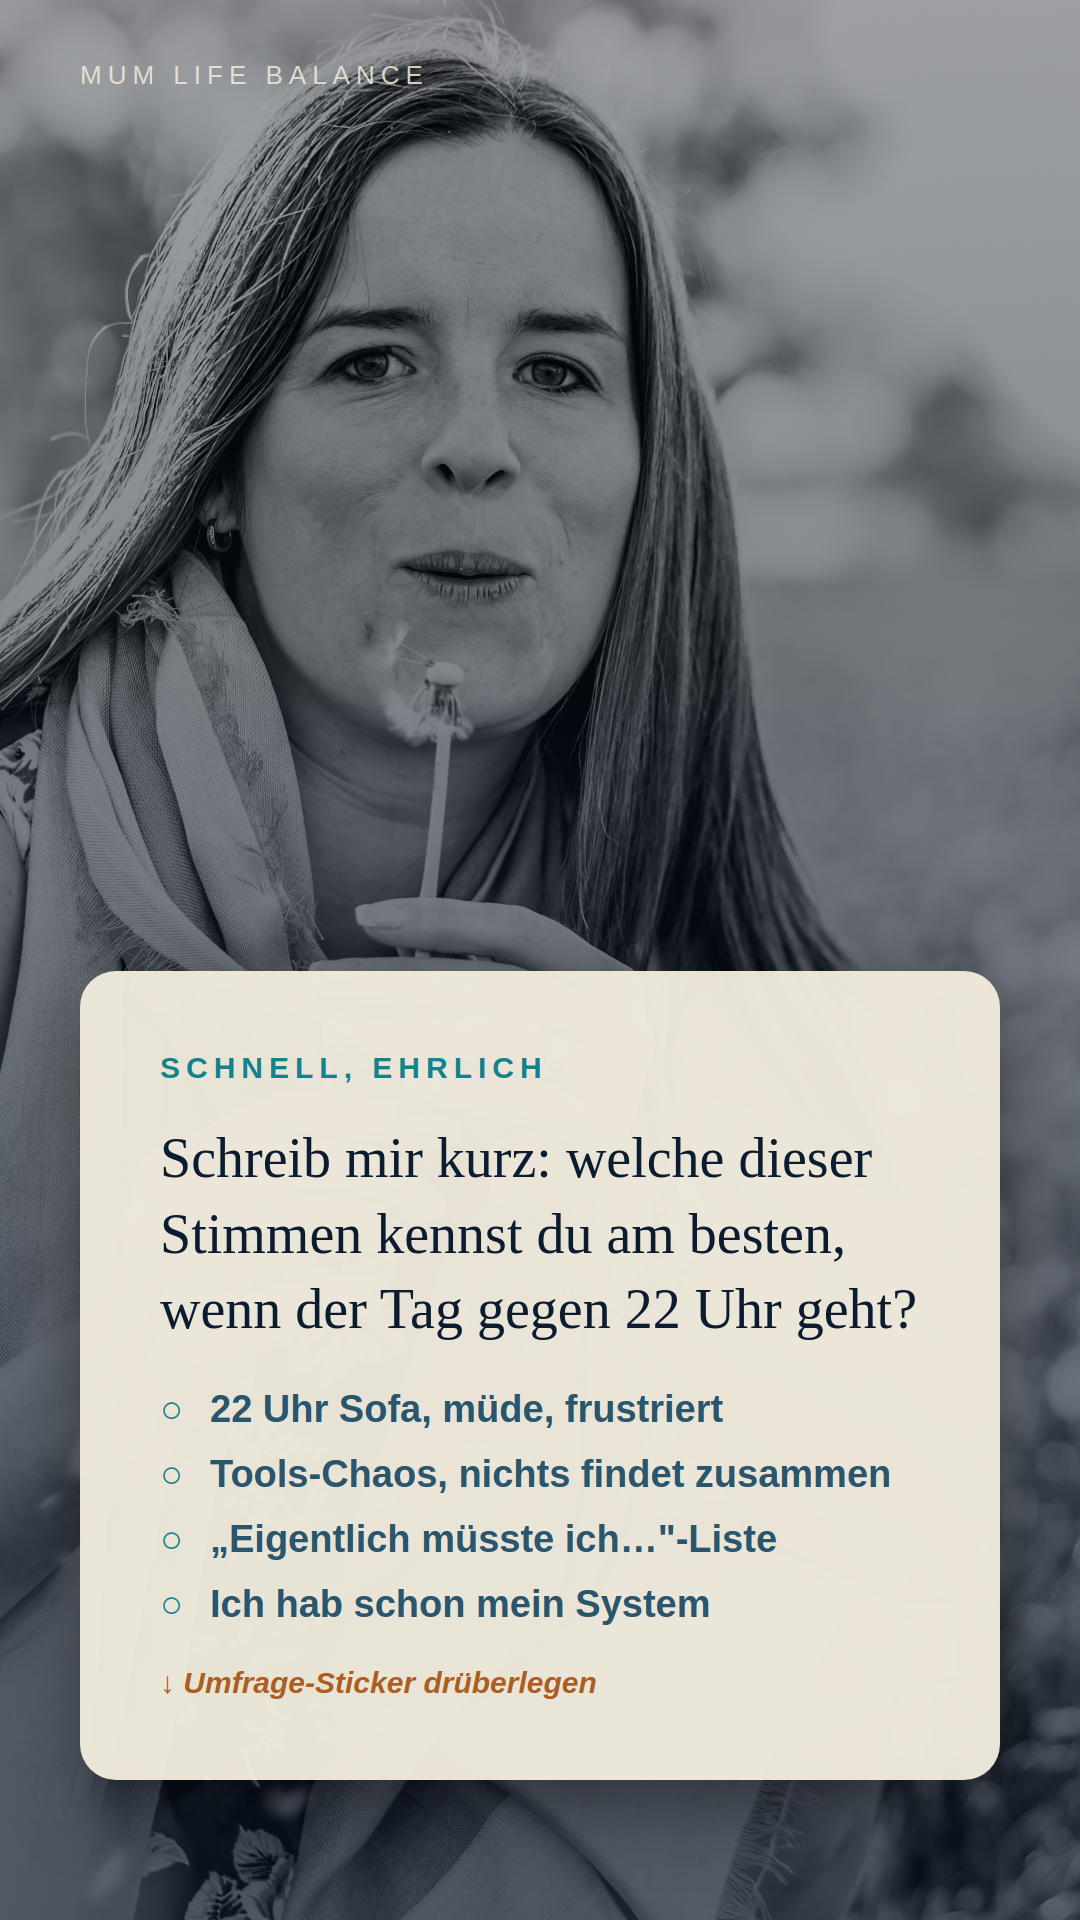
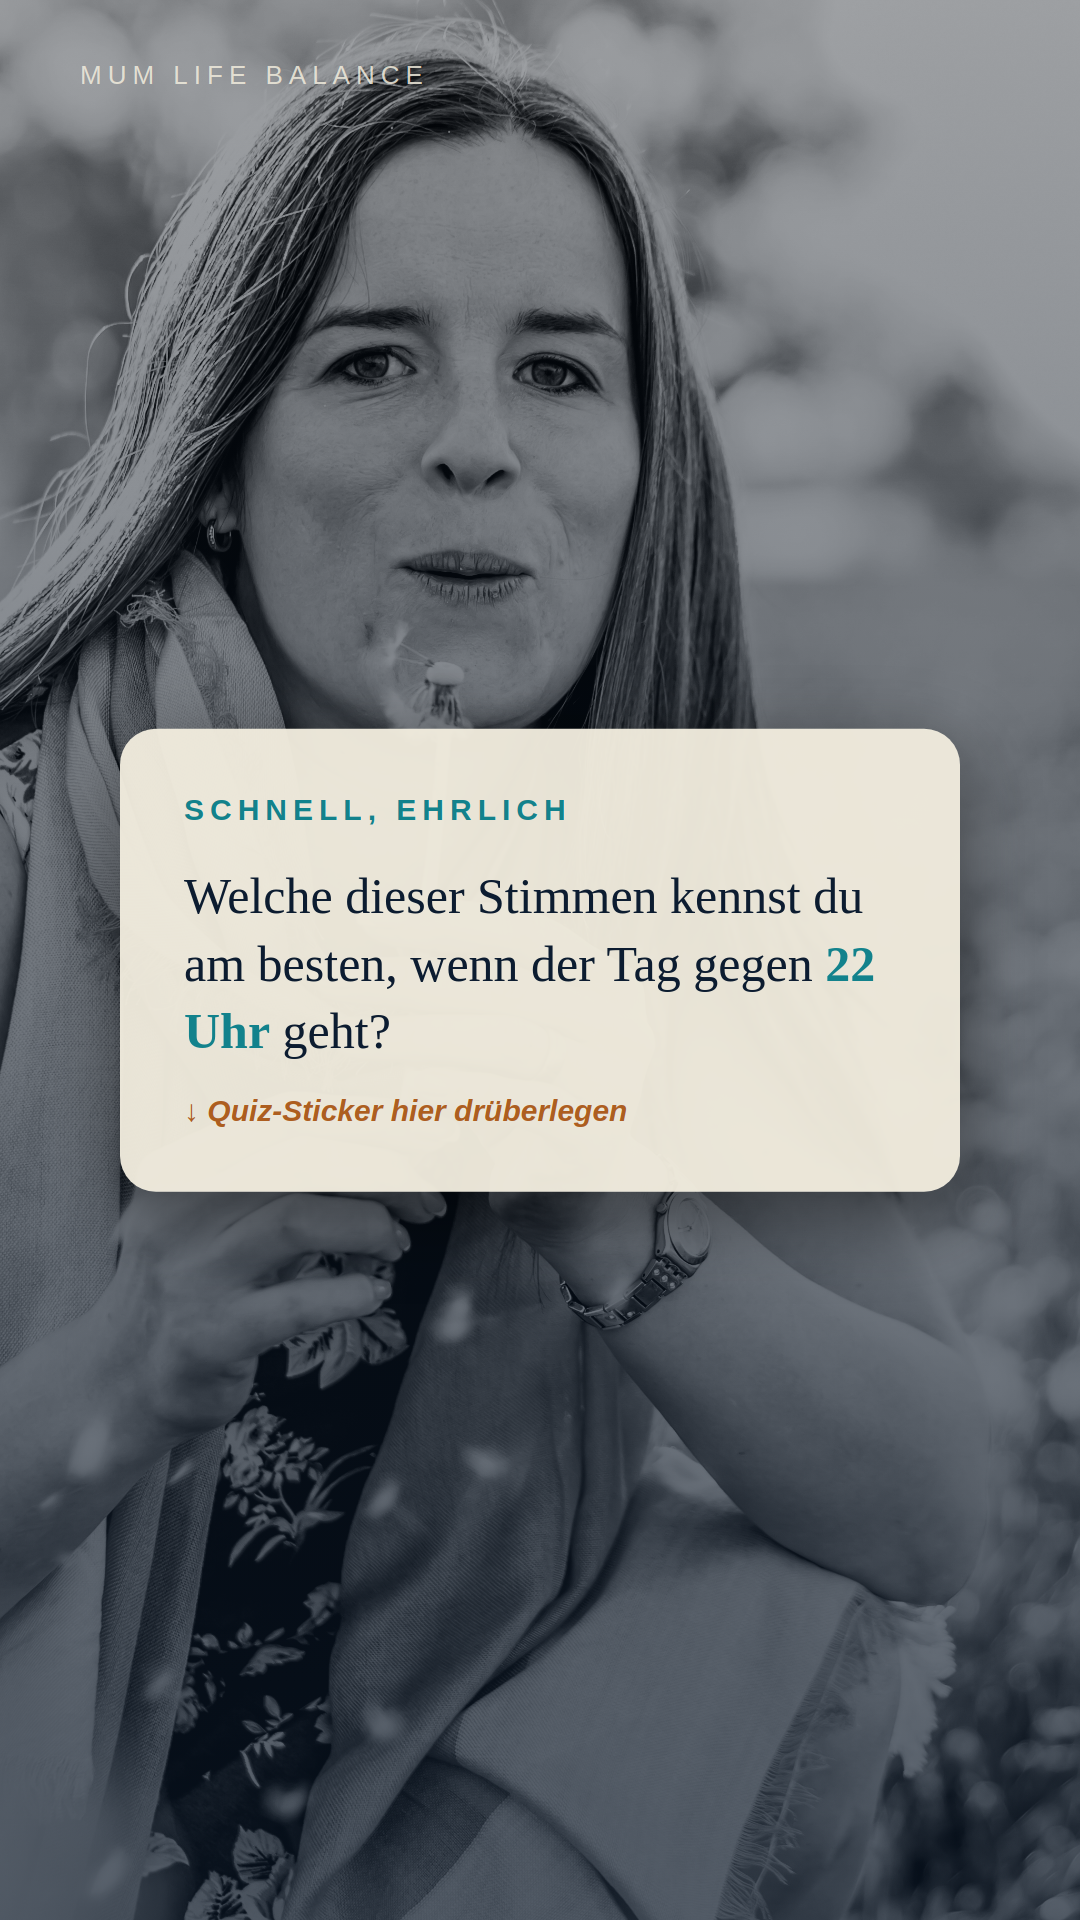
story: Mama-CEO Tag -6 v3 — Slide 6 Quiz-Slot + Slide 8 KI-Webinar-CTA
Patricia-Feedback eingearbeitet:
- Slide 6: Optionen aus der Card entfernt — kollidierten mit dem echten
  Instagram-Quiz-Sticker (doppelte Liste im Story-Render auf Patricias
  Bildschirm). Card jetzt mittig + kompakt, nur die Frage. Sticker-Slot
  unten frei fuer den echten Quiz-Sticker.
- Slide 7: Mama-CEO namentlich raus — offizieller Reveal erst am Webinar
  Mi 20.5. Neuer Schluss baut Bruecke: „Genau dahin fuehre ich dich —
  und am Mittwoch zeige ich dir live, wie."
- Slide 8: Pre-Sale-CTA komplett ersetzt durch KI-Webinar-Anmeldung
  (Mi 20.5. 20:00 Uhr, webinar.mumlifebalance.ch, kostenlos, Live-Q&A).

Patricias finale Quiz-Optionen im Briefing dokumentiert.

diff --git a/outputs/stories/2026-05-14-tagesplan-mentoring-mama-ceo-tag-minus-6/slides.html b/outputs/stories/2026-05-14-tagesplan-mentoring-mama-ceo-tag-minus-6/slides.html
@@ -221,29 +221,23 @@
     <div class="frame-label">05 Story · Mechanism + Beweis</div>
   </div>
 
-  <!-- SLIDE 6: FRAGE (Umfrage-Sticker) -->
+  <!-- SLIDE 6: FRAGE (Card NUR mit Frage — Quiz-Sticker liegt drüber) -->
   <div class="stage-wrap">
     <div class="stage">
       <div class="slide foto-slide">
         <img class="bg" src="fotos/slide-06-pusteblume.jpg" alt="">
         <div class="dim"></div>
         <div class="brand-tag">Mum Life Balance</div>
-        <div class="card">
+        <div class="card center" style="left:120px; right:120px; padding:64px 64px;">
           <div class="card-eyebrow">Schnell, ehrlich</div>
-          <div class="card-text">
-            Schreib mir kurz: welche dieser Stimmen kennst du am besten, wenn der Tag gegen 22 Uhr geht?
+          <div class="card-text" style="font-size:50px;">
+            Welche dieser Stimmen kennst du am besten, wenn der Tag gegen <strong>22 Uhr</strong> geht?
           </div>
-          <ul class="options">
-            <li>22 Uhr Sofa, müde, frustriert</li>
-            <li>Tools-Chaos, nichts findet zusammen</li>
-            <li>„Eigentlich müsste ich…"-Liste</li>
-            <li>Ich hab schon mein System</li>
-          </ul>
-          <div class="sticker-hint">↓ Umfrage-Sticker drüberlegen</div>
+          <div class="sticker-hint" style="margin-top:28px;">↓ Quiz-Sticker hier drüberlegen</div>
         </div>
       </div>
     </div>
-    <div class="frame-label">06 Frage · Wilma-Engagement</div>
+    <div class="frame-label">06 Frage · Quiz-Sticker-Slot</div>
   </div>
 
   <!-- SLIDE 7: VORHER-NACHHER ALS ERZÄHLUNG -->
@@ -256,7 +250,7 @@
         <div class="card">
           <div class="card-eyebrow">In 8 Wochen</div>
           <div class="card-text">
-            Es ist wieder Donnerstagabend. Nur diesmal hast du um <strong>19 Uhr</strong> den Laptop zugemacht. Dein Funnel arbeitet weiter, ohne dich. Die erste DM hat dein Bot beantwortet. Und du sitzt mit deiner Familie am Tisch — ohne diese leise Liste im Kopf, die dich sonst beim Essen begleitet. <em>Genau dahin</em> bringt dich Mama-CEO.
+            Es ist wieder Donnerstagabend. Nur diesmal hast du um <strong>19 Uhr</strong> den Laptop zugemacht. Dein Funnel arbeitet weiter, ohne dich. Die erste DM hat dein Bot beantwortet. Und du sitzt mit deiner Familie am Tisch — ohne diese leise Liste im Kopf, die dich sonst beim Essen begleitet. <em>Genau dahin</em> führe ich dich — und am Mittwoch zeige ich dir live, wie.
           </div>
         </div>
       </div>
@@ -264,7 +258,7 @@
     <div class="frame-label">07 Vorher-Nachher · Erzählung</div>
   </div>
 
-  <!-- SLIDE 8: CTA (Knappheit + Pre-Sale-Liste) -->
+  <!-- SLIDE 8: CTA — KI-Webinar Mi 20.5. -->
   <div class="stage-wrap">
     <div class="stage">
       <div class="slide foto-slide">
@@ -272,15 +266,15 @@
         <div class="dim"></div>
         <div class="brand-tag">Mum Life Balance</div>
         <div class="card">
-          <div class="card-eyebrow">Mama-CEO · 8 Wochen · Start 1.6.</div>
+          <div class="card-eyebrow">Mittwoch · 20. Mai · 20:00 Uhr</div>
           <div class="card-text">
-            Anmeldung öffnet <strong>Mittwoch 20.5. um 9 Uhr</strong>. 15 Plätze. Frühbucher 249 für die ersten 72 Stunden. Wenn du dabei sein willst, kommentier <strong>CEO</strong> hier unter der Story.
+            Live-Klasse: wie ich mit <strong>13 KI-Mitarbeitern</strong> und 18 Stunden pro Woche ein Business führe, das jeden Monat verkauft. Kostenlos. Mit Live-Q&amp;A am Schluss.
           </div>
-          <div class="cta-knappheit">→ Ich schick dir den Link 24 Stunden vor allen anderen.</div>
+          <div class="cta-knappheit">→ Anmelden: webinar.mumlifebalance.ch · Link in Bio</div>
         </div>
       </div>
     </div>
-    <div class="frame-label">08 CTA · Pre-Sale-Liste</div>
+    <div class="frame-label">08 CTA · KI-Webinar</div>
   </div>
 
 </div>

diff --git a/outputs/stories/2026-05-14-tagesplan-mentoring-mama-ceo-tag-minus-6/briefing.md b/outputs/stories/2026-05-14-tagesplan-mentoring-mama-ceo-tag-minus-6/briefing.md
@@ -1,4 +1,13 @@
-# Story-Briefing — 2026-05-14 (Do) — Tagesplan — Mentoring · Version 2 (Foto + Erzählung)
+# Story-Briefing — 2026-05-14 (Do) — Tagesplan — Mentoring · Version 3 (Webinar-CTA + Quiz-Sticker-Slot)
+
+## Was sich v3 geändert hat (Patricia-Feedback 2026-05-14 abends)
+
+- **Slide 6:** Optionen aus der Card raus — die Card hat doppelt mit Patricias Instagram-Quiz-Sticker konkurriert. Jetzt: Card mittig, kompakt, nur die Frage + Sticker-Slot-Hinweis. Patricia legt den echten Quiz-Sticker drüber mit ihren Optionen (siehe unten).
+- **Slide 7:** „Mama-CEO" namentlich raus — offizieller Reveal ist erst am Webinar Mi 20.5. Neuer Schluss baut Brücke zum Webinar: „Genau dahin führe ich dich — und am Mittwoch zeige ich dir live, wie."
+- **Slide 8:** Pre-Sale-Mama-CEO-CTA komplett ersetzt durch KI-Webinar-Anmeldung. URL `webinar.mumlifebalance.ch`, Mi 20.5. 20:00 Uhr, kostenlos, Live-Q&A.
+
+---
+
 
 ## Kontext
 
@@ -10,12 +19,13 @@
 - **Julia-Template:** Mix aus Template 9 (Glaubenssatz auflösen) + Template 3 (Pain-Spiegel)
 - **Stil-Update v2 (Patricia-Feedback 2026-05-14):** Foto-Hintergrund + Textfeld-Card statt Gradient + Erzählungs-Modus statt abgehackter Sätze.
 
-## CTA-Plan
+## CTA-Plan (v3)
 
-- **ManyChat-Keyword:** `CEO`
-- **TODO Patricia (vor Versand):** ManyChat-Flow für Keyword `CEO` für Pre-Launch-Phase einrichten. Bot-Antwort:
-  > „Du bist auf der Frühbucher-Liste für Mama-CEO. Mittwoch 20.5. um 9:00 schicke ich dir den Anmeldelink **24 h bevor die Story-Welt davon erfährt**. 15 Plätze. Frühbucher 249 statt 333 für die ersten 72 Stunden."
-- Slide 8 enthält den Aufruf zum Kommentieren in der Story.
+- **Primärer CTA:** Anmelde-URL `https://webinar.mumlifebalance.ch/` (Webinar Mi 20.5. 20:00, kostenlos)
+- **Sticker-Variante:** Link-Sticker auf die Webinar-URL direkt im Story-Frame setzen — klickbar
+- **Verstärker:** Countdown-Sticker auf Mi 20.5. 20:00
+- **Mama-CEO-Reveal:** erst während/nach dem Webinar — Stories Tag -6 bis Tag -1 sprechen nur vom Webinar, nicht vom Produkt
+- **TODO Patricia:** Prüfen ob die Webinar-Anmeldeseite live ist und ob die 20:00-Uhrzeit stimmt (falls nein: in der HTML auf richtige Uhrzeit ändern und neu rendern)
 
 ## Layout-Konzept v2
 
@@ -66,32 +76,37 @@
 - **Daten-Quelle:** sales-page.md Block 4 + Block 5
 - **Sticker:** keine
 
-### Slide 6 — Frage (Umfrage-Sticker, Wilma-Buyer-Type)
+### Slide 6 — Frage (Quiz-Sticker-Slot, Wilma-Buyer-Type) · v3-FIX
 - **Foto:** `fotos/slide-06-pusteblume.jpg` — Patricia mit Pusteblume, Schwarz-Weiss
 - **Eyebrow:** „SCHNELL, EHRLICH"
-- **Card-Text:** „Schreib mir kurz: welche dieser Stimmen kennst du am besten, wenn der Tag gegen 22 Uhr geht?"
-- **Optionen (in Card als Liste):**
-  - 22 Uhr Sofa, müde, frustriert
-  - Tools-Chaos, nichts findet zusammen
-  - „Eigentlich müsste ich…"-Liste
-  - Ich hab schon mein System
-- **Sticker-Empfehlung:** Umfrage-Sticker (Mehrfachauswahl) — Patricia in Instagram-App über die Card legen oder die Card-Liste durch echten Sticker ersetzen. Hinweis-Pfeil ist im Render eingebaut.
-- **Card-Position:** bottom
+- **Card-Text (NUR Frage, KEINE Optionen):** „Welche dieser Stimmen kennst du am besten, wenn der Tag gegen **22 Uhr** geht?"
+- **Card-Position:** **center** (mittig, schmaler — damit oben Patricias Gesicht und unten Platz für den Sticker frei bleiben)
+- **Sticker-Empfehlung:** Instagram **Quiz-Sticker** (Patricia hat ihn schon in der App vorbereitet — Versionen vom 14.5. abends) mit diesen 4 Optionen (Patricia-finale Formulierung):
+  1. 22 Uhr Sofa, müde, frustriert
+  2. Keinen Überblick mehr
+  3. Eigentlich müsste ich noch …
+  4. Ich habe schon ein System
+- **Sticker-Position:** unteres Drittel mittig (Patricias Gesicht ist oben rechts/mittig, Hand mit Pusteblume mittig — Sticker setzt sich darunter)
+- **Hinweis im Render:** kleiner Sticker-Hint „↓ Quiz-Sticker hier drüberlegen" — visuelle Erinnerung, wird beim Posting durch echten Sticker überlagert
 
-### Slide 7 — Vorher-Nachher als Erzählung (Success Event 3D)
+### Slide 7 — Vorher-Nachher als Erzählung (Success Event 3D) · v3-FIX (Mama-CEO-Name raus)
 - **Foto:** `fotos/slide-07-blumenfeld-lacht.jpg` — Patricia lacht im Blumenfeld (Sessel in der Wiese), strahlend
 - **Eyebrow:** „IN 8 WOCHEN"
-- **Card-Text:** „Es ist wieder Donnerstagabend. Nur diesmal hast du um **19 Uhr** den Laptop zugemacht. Dein Funnel arbeitet weiter, ohne dich. Die erste DM hat dein Bot beantwortet. Und du sitzt mit deiner Familie am Tisch — ohne diese leise Liste im Kopf, die dich sonst beim Essen begleitet. *Genau dahin* bringt dich Mama-CEO."
+- **Card-Text:** „Es ist wieder Donnerstagabend. Nur diesmal hast du um **19 Uhr** den Laptop zugemacht. Dein Funnel arbeitet weiter, ohne dich. Die erste DM hat dein Bot beantwortet. Und du sitzt mit deiner Familie am Tisch — ohne diese leise Liste im Kopf, die dich sonst beim Essen begleitet. *Genau dahin* führe ich dich — und am Mittwoch zeige ich dir live, wie."
 - **Card-Position:** bottom
 - **Sticker:** keine
+- **Begründung Mama-CEO-Reveal:** offizielle Vorstellung des Produktes erfolgt erst am 20.5. Webinar — bis dahin nur Bridge-Sätze („das, was ich gebaut habe", „mein neues Programm", „am Mittwoch zeige ich dir wie")
 
-### Slide 8 — CTA mit Knappheit
-- **Foto:** `fotos/slide-08-arme-offen.jpg` — Patricia mit ausgebreiteten Armen vor Berglandschaft, Schwarz-Weiss (Befreiungs-Vibe)
-- **Eyebrow:** „MAMA-CEO · 8 WOCHEN · START 1.6."
-- **Card-Text:** „Anmeldung öffnet **Mittwoch 20.5. um 9 Uhr**. 15 Plätze. Frühbucher 249 für die ersten 72 Stunden. Wenn du dabei sein willst, kommentier **CEO** hier unter der Story."
-- **CTA-Knappheit (orange, kursiv):** „→ Ich schick dir den Link 24 Stunden vor allen anderen."
-- **Sticker-Empfehlung:** Countdown-Sticker auf 20.5. 9:00 ODER „Antworten erlaubt"-Sticker für DM-Eingang
+### Slide 8 — CTA: KI-Webinar-Anmeldung · v3-NEU
+- **Foto:** `fotos/slide-08-arme-offen.jpg` — Patricia mit ausgebreiteten Armen vor Berglandschaft, Schwarz-Weiss (Bühne-öffnen-Vibe)
+- **Eyebrow:** „MITTWOCH · 20. MAI · 20:00 UHR"
+- **Card-Text:** „Live-Klasse: wie ich mit **13 KI-Mitarbeitern** und 18 Stunden pro Woche ein Business führe, das jeden Monat verkauft. Kostenlos. Mit Live-Q&A am Schluss."
+- **CTA-Knappheit (orange):** „→ Anmelden: webinar.mumlifebalance.ch · Link in Bio"
+- **Sticker-Empfehlung:**
+  - **Link-Sticker** auf die URL `https://webinar.mumlifebalance.ch/` setzen (Instagram macht das klickbar)
+  - ODER **Countdown-Sticker** auf Mi 20.5. 20:00 Uhr setzen — verstärkt Live-Charakter
 - **Card-Position:** bottom
+- **Anmerkung Uhrzeit:** Standard-Mama-Slot 20:00 Uhr gewählt (Kinder im Bett). Falls Webinar tatsächlich zu einer anderen Uhrzeit ist — in der HTML/PNG die Uhrzeit anpassen.
 
 ## Voice-Check — 6-Punkte-Pflichtprüfung
 
